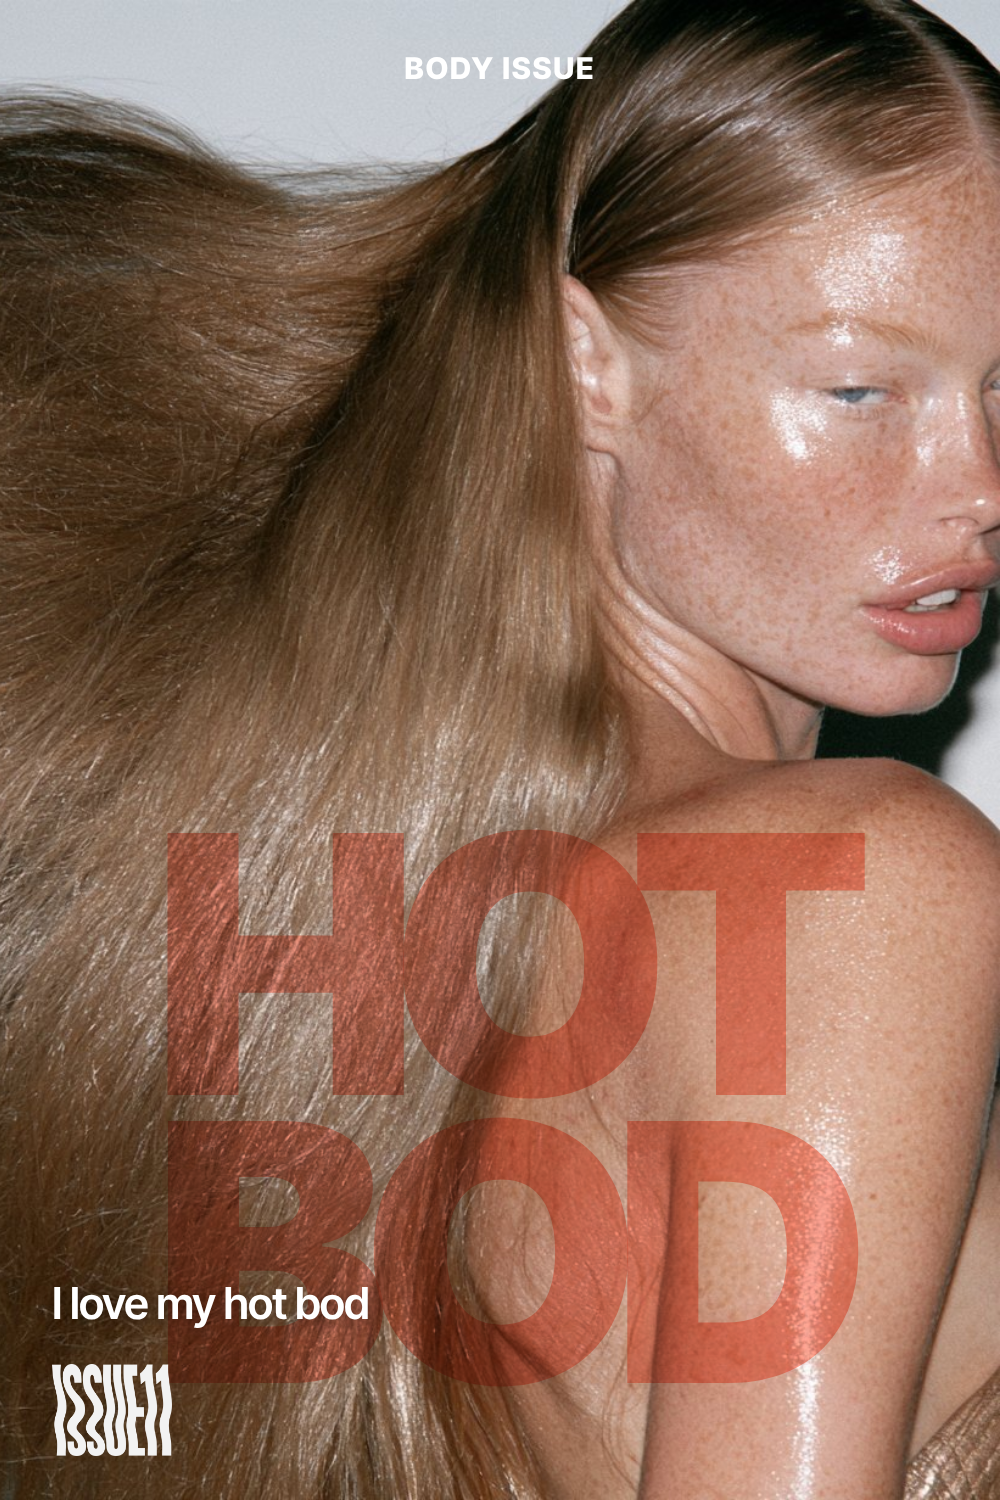
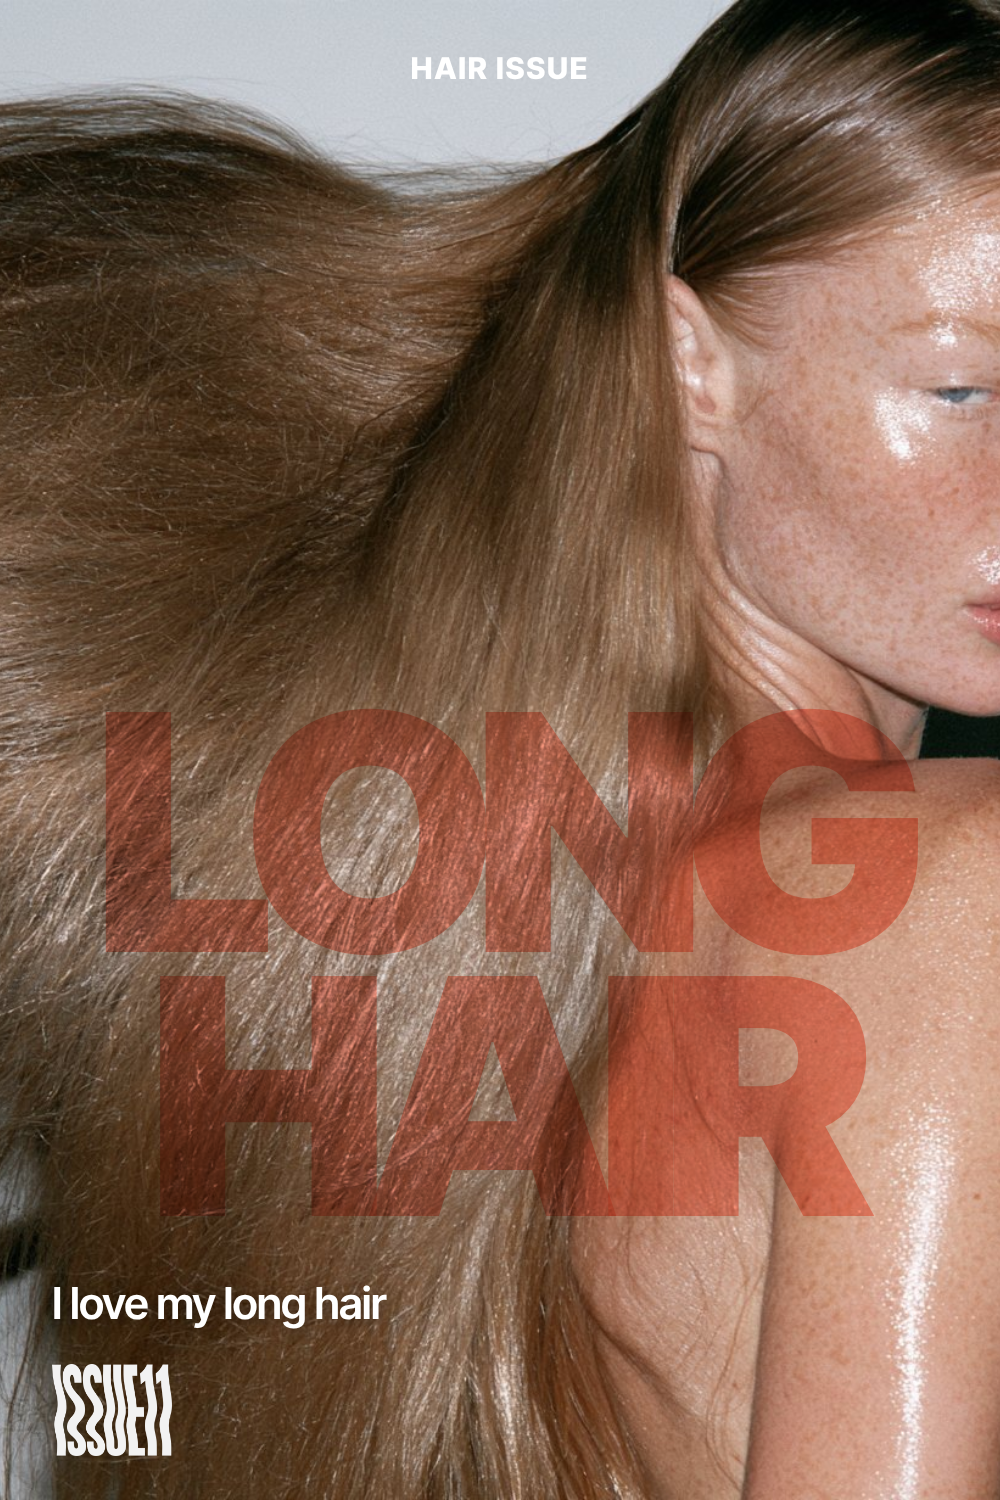
Pinterest: Megan's round 9 picks (89, 90, 91, 93, 95); CT93 now 'I love my long hair' (her line, added to BANK)
Claude-Session: https://claude.ai/code/session_01YGtmQppBCBt9nypMHzxSp1

diff --git a/drafts/pinterest/color-test/CT93.dc.html b/drafts/pinterest/color-test/CT93.dc.html
@@ -2,7 +2,7 @@
 <html lang="en">
 <head>
 <meta charset="utf-8">
-<title>Color test 93 · inspo giant translucent word</title>
+<title>Color test 93 · inspo giant translucent word · long hair</title>
 <script src="./support.js"></script>
 </head>
 <body>
@@ -23,15 +23,15 @@ img.f{position:absolute;object-fit:cover;display:block}
 .bars i{display:block;height:9px;margin:0 0 12px;border-radius:1px}
 
 .pin{background:#7A4A30}
-.big{position:absolute;left:10px;right:10px;top:820px;text-align:center;font-weight:900;font-size:360px;line-height:.8;letter-spacing:-.07em;color:rgba(255,120,90,.62);mix-blend-mode:multiply;text-transform:uppercase}
+.big{position:absolute;left:10px;right:10px;top:700px;text-align:center;font-weight:900;font-size:330px;line-height:.8;letter-spacing:-.07em;color:rgba(255,120,90,.62);mix-blend-mode:multiply;text-transform:uppercase}
 .top{position:absolute;left:0;right:0;top:50px;text-align:center;color:#fff;font-weight:800;font-size:30px;letter-spacing:.06em;text-transform:uppercase}
 .line{position:absolute;left:52px;right:52px;bottom:170px;color:#fff;font-weight:600;font-size:44px;letter-spacing:-.02em;text-shadow:0 2px 16px rgba(0,0,0,.4)}
 
 </style>
 </helmet>
 <div class="pin">
-<img class="f full" src="/_blob/68963da8e26c9286d2fba8b5c3edb3bb" style="object-position:100% 20%" alt="Editorial photo (AI-generated)"><div class="top">Body issue</div><div class="big">Hot<br>bod</div>
-<div class="line">I love my hot bod</div><img class="logo w" src="/_blob/d196614efc6265e2205729134fb523b8" alt="ISSUE11">
+<img class="f full" src="/_blob/68963da8e26c9286d2fba8b5c3edb3bb" style="object-position:20% 20%" alt="Editorial photo (AI-generated)"><div class="top">Hair issue</div><div class="big">Long<br>hair</div>
+<div class="line">I love my long hair</div><img class="logo w" src="/_blob/d196614efc6265e2205729134fb523b8" alt="ISSUE11">
 </div>
 </x-dc>
 <script type="text/x-dc" data-dc-script data-props='{"$preview":{"width":1000,"height":1500}}'>

diff --git a/drafts/pinterest/color-test/gen10.py b/drafts/pinterest/color-test/gen10.py
@@ -70,13 +70,13 @@ img.f{left:380px;top:860px;width:270px;height:340px}
 <img class="f" src="{s('blueclose')}" style="object-position:50% 30%" {A}><div class="cap">I am the prize, always</div>
 <img class="logo" src="{LOGO}" alt="ISSUE11">""")
 # 93 · BAD giant translucent type (editorial-22) → over the back/shoulder, never the face
-P['CT93']=doc('Color test 93 · inspo giant translucent word',S+"""
+P['CT93']=doc('Color test 93 · inspo giant translucent word · long hair',S+"""
 .pin{background:#7A4A30}
-.big{position:absolute;left:10px;right:10px;top:820px;text-align:center;font-weight:900;font-size:360px;line-height:.8;letter-spacing:-.07em;color:rgba(255,120,90,.62);mix-blend-mode:multiply;text-transform:uppercase}
+.big{position:absolute;left:10px;right:10px;top:700px;text-align:center;font-weight:900;font-size:330px;line-height:.8;letter-spacing:-.07em;color:rgba(255,120,90,.62);mix-blend-mode:multiply;text-transform:uppercase}
 .top{position:absolute;left:0;right:0;top:50px;text-align:center;color:#fff;font-weight:800;font-size:30px;letter-spacing:.06em;text-transform:uppercase}
 .line{position:absolute;left:52px;right:52px;bottom:170px;color:#fff;font-weight:600;font-size:44px;letter-spacing:-.02em;text-shadow:0 2px 16px rgba(0,0,0,.4)}
-""",f"""<img class="f full" src="{s('shoulder')}" style="object-position:100% 20%" {A}><div class="top">Body issue</div><div class="big">Hot<br>bod</div>
-<div class="line">I love my hot bod</div><img class="logo w" src="{LOGO}" alt="ISSUE11">""")
+""",f"""<img class="f full" src="{s('shoulder')}" style="object-position:20% 20%" {A}><div class="top">Hair issue</div><div class="big">Long<br>hair</div>
+<div class="line">I love my long hair</div><img class="logo w" src="{LOGO}" alt="ISSUE11">""")
 # 94 · CO2MO (editorial-27) → giant word bleeding at top + dense text column of money lines
 lines=["I wake up to money","I'm making money in my sleep","My business is bringing sooooo much money","I make way more money than what I'm able to spend","I make $10,000 a month with ease","I wake up to Stripe notifications","A healthy mind, a fit body, and lots of money $$$"]
 P['CT94']=doc('Color test 94 · inspo bleed word + text column',S+"""

diff --git a/drafts/pinterest/color-test/COLOR-TEST.md b/drafts/pinterest/color-test/COLOR-TEST.md
@@ -108,3 +108,5 @@ Round 9 copies her inspo spreads (`design/magazine/inspo/`, library in `design/m
 88 overprint type on cash photo (editorial-25 "Happy Victims") · 89 star windows (editorial-12 "trust the process") · 90 repeated name + ID list (editorial-30) · 91 outline type + mint bubble note (editorial-15) · 92 vertical stacked words + columns (editorial-21 "Not the icing on the cake") · 93 giant translucent word, off the face (editorial-22 "BAD") · 94 bleed word + text column (editorial-27 "CO2MO") · 95 giant lowercase word + 4 photo specimens (editorial-33 "gaijin") · 96 giant letters over columns (editorial-20 "WASHINGTON") · 97 headline over photo + repeated vertical word + bar (editorial-08). Each photo matches its BANK line.
 
 Megan on round 9 (Nov 16, word for word): "Okayyy those are really cool to test out !" → CT88–CT97 join the test set (status: approved to test, not scheduled; the Manager schedules after Megan's go).
+
+Megan's picks from round 9 (Nov 16, word for word): "91, 90, 89, 95, 93 except the image is more hair focused so we can say "I love my long hair"". LOVED TEMPLATES added: CT89 star windows · CT90 repeated name + ID list · CT91 outline type + bubble note · CT93 giant translucent word (now "LONG HAIR" / "I love my long hair", line added to BANK.md as Megan's) · CT95 giant lowercase word + specimens. Not picked: 88, 92, 94, 96, 97.

diff --git a/drafts/pinterest/affirmations/BANK.md b/drafts/pinterest/affirmations/BANK.md
@@ -39,6 +39,7 @@ Rule (Megan, Nov 15): "The quotes still sound way too AI it needs to stop". Agen
 - I make $10,000 a month with ease
 - I wake up to Stripe notifications
 - I am worthy of love, respect, and everything I desire
+- I love my long hair (Megan, Nov 16, for pin CT93)
 
 ## Rejected by Megan (never use)
 I sent the text and forgot about it · I don't have to earn my rest anymore · Nothing I want has an expiry date · Rich women rest. I'm a rich woman. · Hard work is overrated. Alignment pays better. · Everyone who doubted me gets a front row seat. (meh) · I can relax. It's handled. · Good news is looking for me. · It's already mine. · The universe is obsessed with me. · Doors and opportunities always come for me (cut Nov 15)
